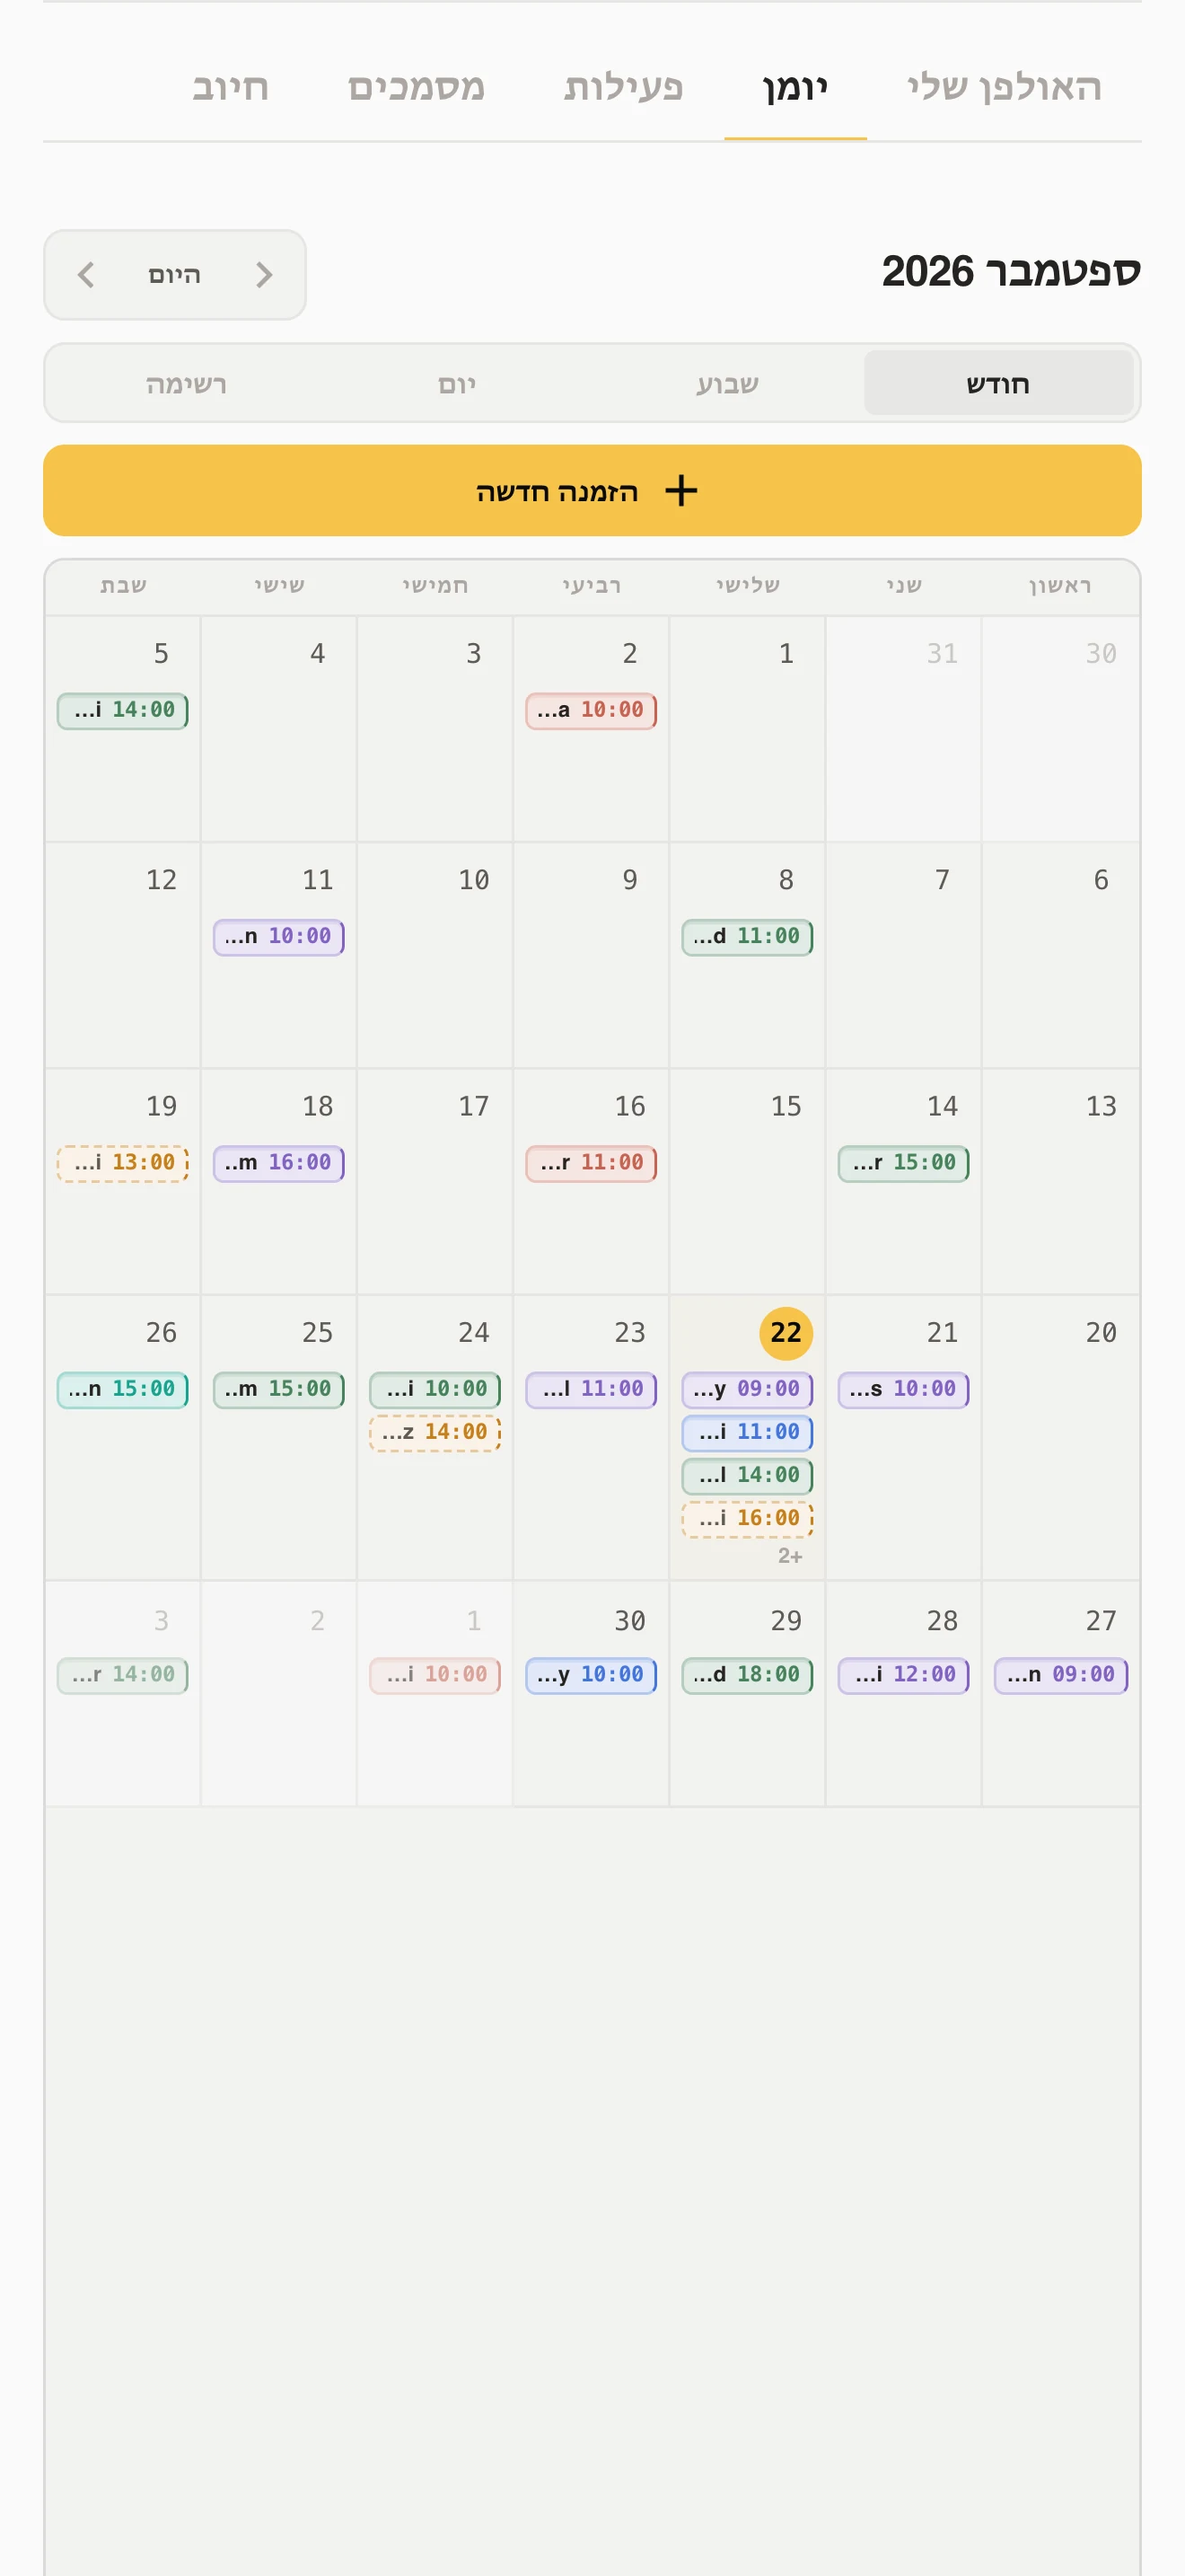
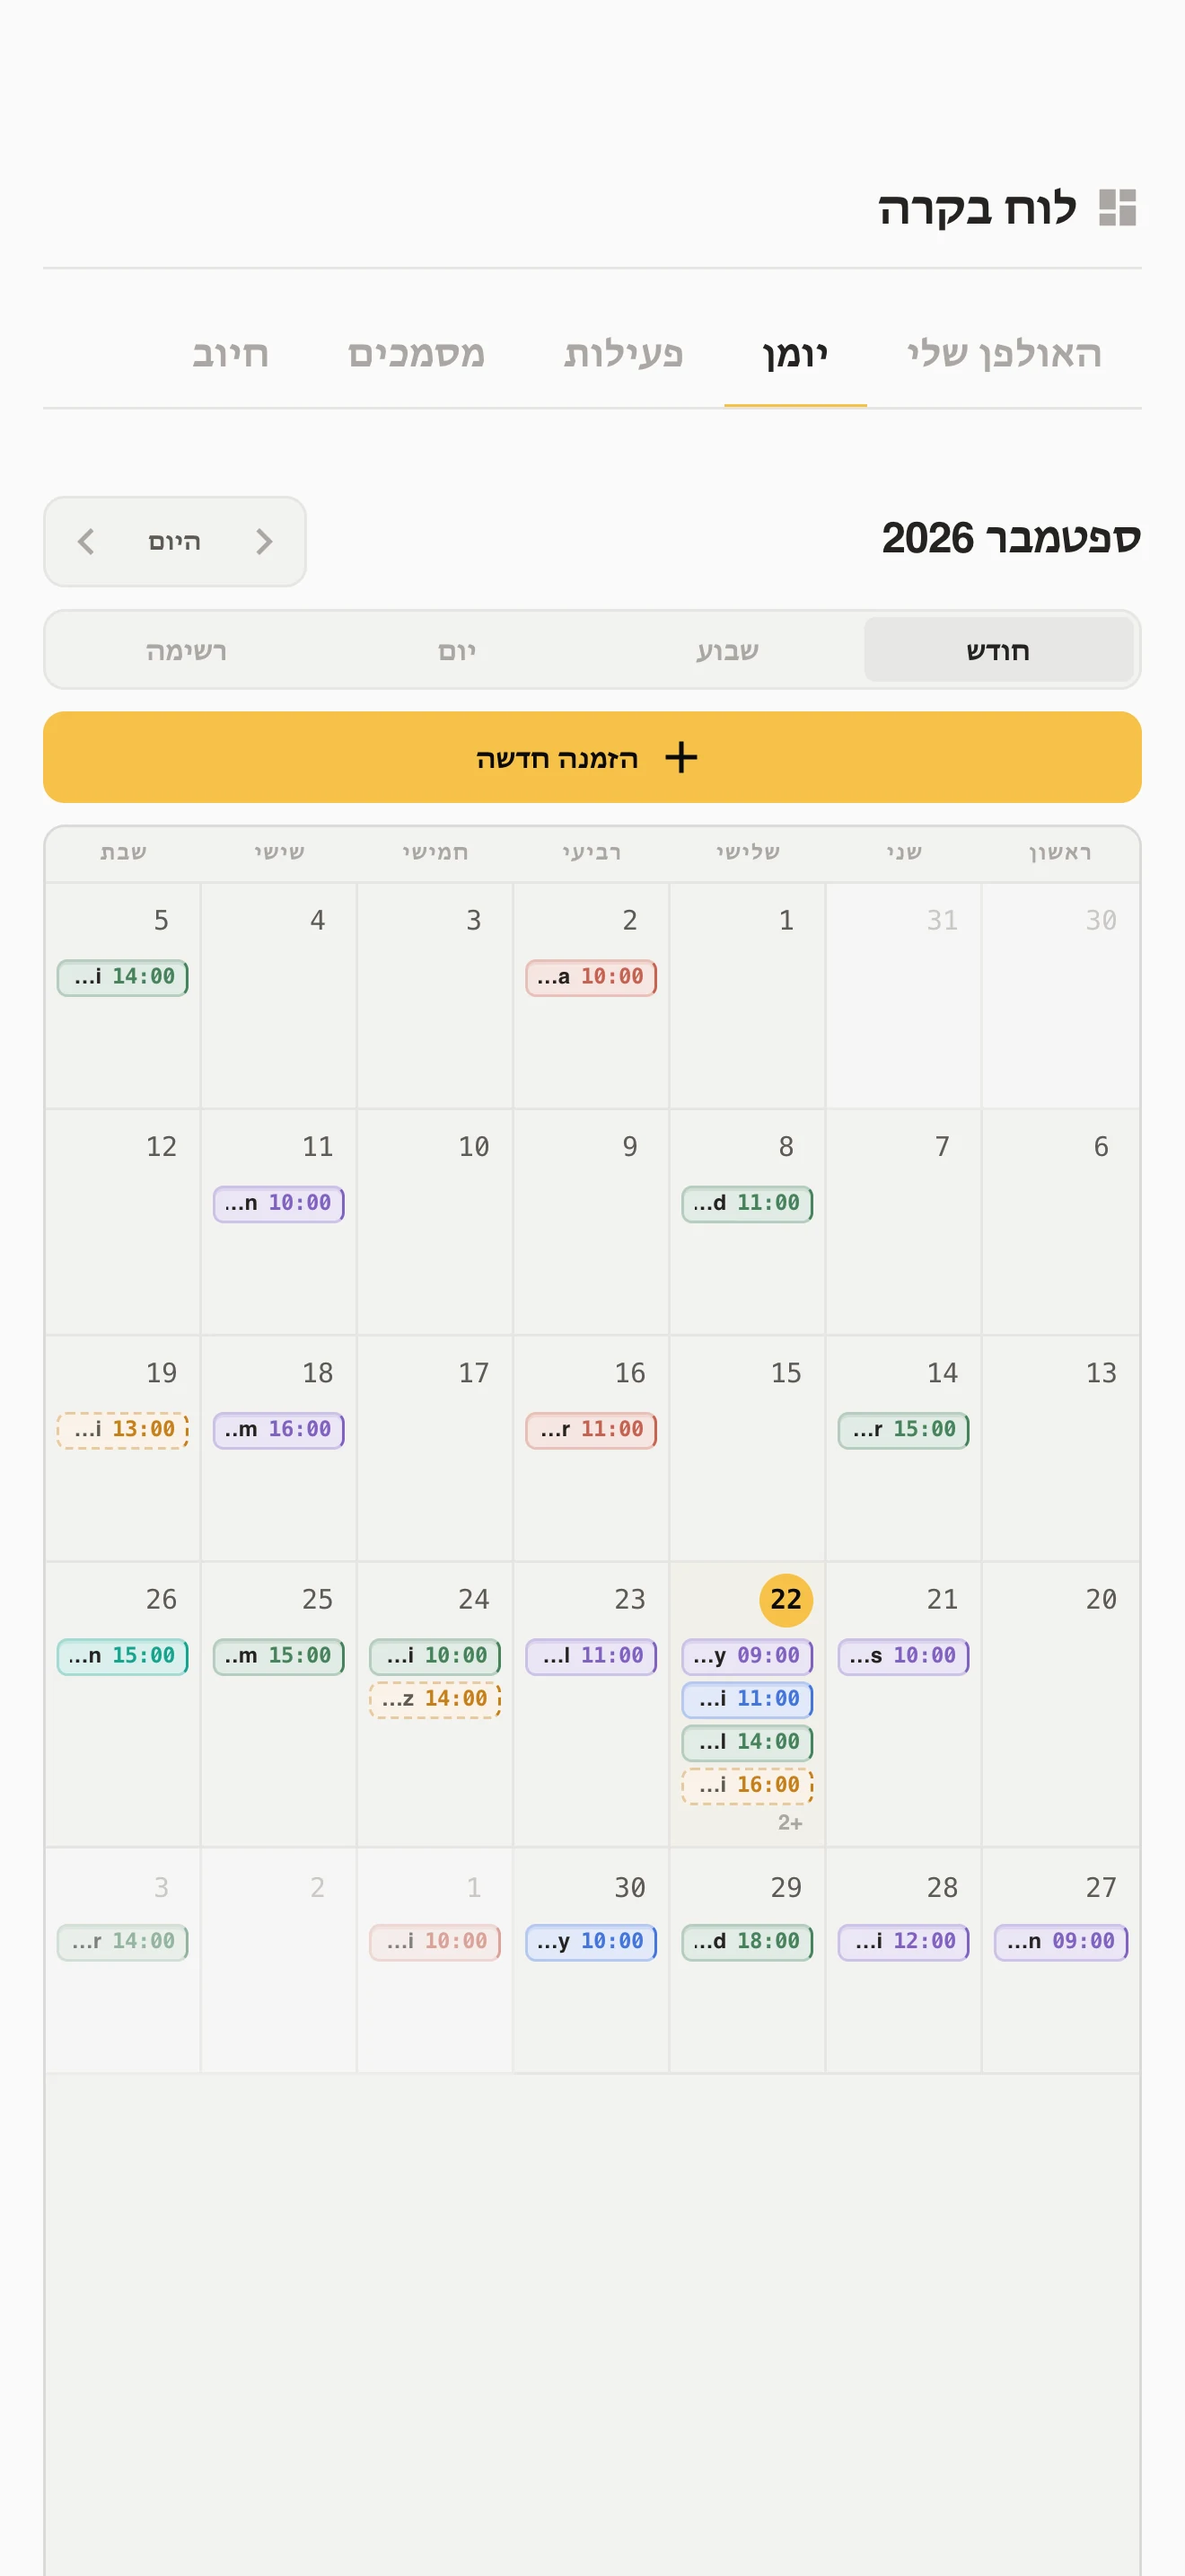
Fix preview landing framing and native Hebrew voice.
Align light calendar and workspace captures to the dark safe-area band, start-align section copy with centered paired titles, and rewrite Hebrew preview copy in the for-owners voice.

diff --git a/src/features/static/styles/_preview-landing-page.scss b/src/features/static/styles/_preview-landing-page.scss
@@ -227,7 +227,7 @@
   // Feedback showcase: taller phone cropped short with a soft bottom fade.
   &__product-visual--mobile-only {
     display: flex;
-    justify-content: center;
+    justify-content: flex-start;
     padding-block: 0.35rem 0.75rem;
 
     .preview-landing__shot--mobile {
@@ -285,8 +285,8 @@
   // ----- Sections -----
   &__section-header {
     max-width: 40rem;
-    margin: 0 auto clamp(2.5rem, 5vw, 3.5rem);
-    text-align: center;
+    margin: 0 0 clamp(2.5rem, 5vw, 3.5rem);
+    text-align: start;
     scroll-margin-top: 5.5rem;
 
     @media (min-width: 768px) {
@@ -302,11 +302,12 @@
   }
 
   &__section-lead {
-    margin: 1rem auto 0;
+    margin: 1rem 0 0;
     max-width: 34rem;
     color: var(--text-secondary);
     font-size: 1.05rem;
     line-height: 1.65;
+    text-align: start;
 
     &--desktop {
       display: none;
@@ -442,6 +443,7 @@
 
     .preview-landing__showcase-copy {
       max-width: none;
+      text-align: center;
 
       h3 {
         margin-top: 0;
@@ -497,8 +499,8 @@
 
       .preview-landing__showcase-copy {
         max-width: 36rem;
-        margin-inline: auto;
-        text-align: center;
+        margin-inline: 0;
+        text-align: start;
       }
 
       .preview-landing__showcase-visual {
@@ -543,6 +545,7 @@
 
   &__showcase-copy {
     max-width: 28rem;
+    text-align: start;
 
     h3 {
       margin: 0.55rem 0 0;
@@ -582,6 +585,7 @@
     padding: 0;
     border: none;
     background: transparent;
+    text-align: start;
 
     p {
       margin: 0;
@@ -812,7 +816,7 @@
     margin: 0.75rem 0 0;
     color: var(--text-muted);
     font-size: 0.8125rem;
-    text-align: center;
+    text-align: start;
   }
 
   // ----- Closing -----
@@ -822,8 +826,8 @@
 
   &__closing-inner {
     max-width: 40rem;
-    margin-inline: auto;
-    text-align: center;
+    margin-inline: 0;
+    text-align: start;
 
     h2 {
       margin: 0.65rem 0 0;
@@ -833,11 +837,15 @@
     }
 
     > p {
-      margin: 1rem auto 0;
+      margin: 1rem 0 0;
       max-width: 32rem;
       color: var(--text-secondary);
       font-size: 1.05rem;
       line-height: 1.65;
+    }
+
+    .preview-landing__hero-actions {
+      justify-content: flex-start;
     }
   }
 }

diff --git a/tools/app-store-screenshots/screenshots.config.ts b/tools/app-store-screenshots/screenshots.config.ts
@@ -169,7 +169,8 @@ const scenes: ScreenshotScene[] = [
           .studioz-calendar__month-view { min-height: inherit !important; }
         `
       },
-      { type: 'scroll', y: 96 }
+      // Same safe-area band as dark calendar / documents (~y=210 @3x).
+      { type: 'scroll', selector: '.page-header', offsetY: 59 }
     ],
     deviceTransform: { scale: 0.82, y: 520, shadow: true },
     capturePublish: {
@@ -1140,7 +1141,29 @@ const scenes: ScreenshotScene[] = [
     auth: 'vendor',
     device: 'iphone-6.9',
     template: 'minimal',
-    actions: [{ type: 'scroll', selector: '.project-file-uploader--source', offsetY: -48 }],
+    actions: [
+      // Same safe-area band as calendar/portfolio (~y=210 @3x). Workspace-only.
+      {
+        type: 'style',
+        css: `
+          .project-detail__header,
+          .project-detail__hero,
+          .project-chat,
+          .project-detail__section--tracks:has(.project-file-uploader--deliverable),
+          .project-detail__section--tracks:has(.project-file-uploader--revision),
+          .project-file-uploader--deliverable,
+          .project-file-uploader--revision,
+          .download-lock,
+          .page-header {
+            display: none !important;
+          }
+          main {
+            padding-top: 3.9rem !important;
+          }
+        `
+      },
+      { type: 'scroll', selector: '.project-file-uploader--source', offsetY: 59 }
+    ],
     deviceTransform: { scale: 0.82, y: 520, shadow: true },
     capturePublish: {
       directory: 'public/images/features-generated',

diff --git a/src/features/static/pages/PreviewLandingPage.tsx b/src/features/static/pages/PreviewLandingPage.tsx
@@ -286,7 +286,7 @@ export default function PreviewLandingPage() {
 
   const captureUrl = useCallback(
     (capture: string) =>
-      `/images/features-generated/${assetLocale}/${resolvedTheme}/${capture}.webp?v=20260928c`,
+      `/images/features-generated/${assetLocale}/${resolvedTheme}/${capture}.webp?v=20260928d`,
     [assetLocale, resolvedTheme]
   );
 
@@ -508,9 +508,7 @@ export default function PreviewLandingPage() {
                 const desktops =
                   showcase.key === 'operations'
                     ? MOBILE_OPS_DESKTOPS.map((id) => captureUrl(id))
-                    : 'desktops' in showcase
-                      ? showcase.desktops.map((id) => captureUrl(id))
-                      : undefined;
+                    : undefined;
 
                 return (
                   <motion.article

diff --git a/src/features/static/components/_preview-mobile-carousel.scss b/src/features/static/components/_preview-mobile-carousel.scss
@@ -8,7 +8,7 @@
     display: flex;
     flex-direction: column;
     gap: clamp(2rem, 5vw, 3.25rem);
-    align-items: center;
+    align-items: stretch;
 
     @media (min-width: 900px) {
       flex-direction: row;
@@ -21,6 +21,7 @@
     width: 100%;
     max-width: 28rem;
     text-align: start;
+    margin-inline: 0;
   }
 
   &__header {
@@ -77,7 +78,8 @@
     width: min(100%, 18.5rem);
     display: flex;
     flex-direction: column;
-    align-items: center;
+    align-items: stretch;
+    align-self: flex-start;
     gap: 1rem;
   }
 
